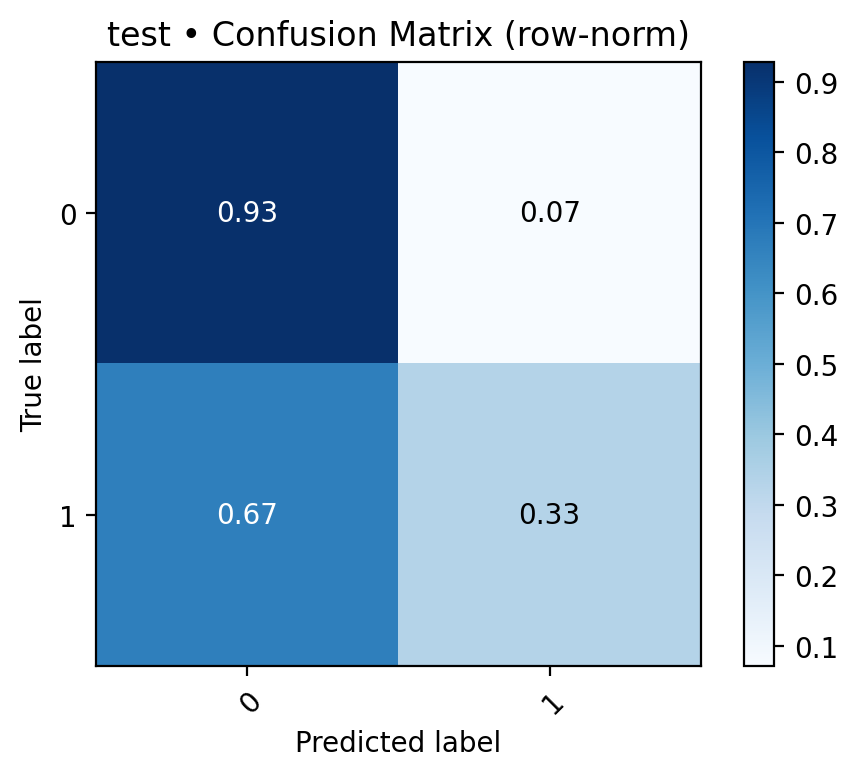
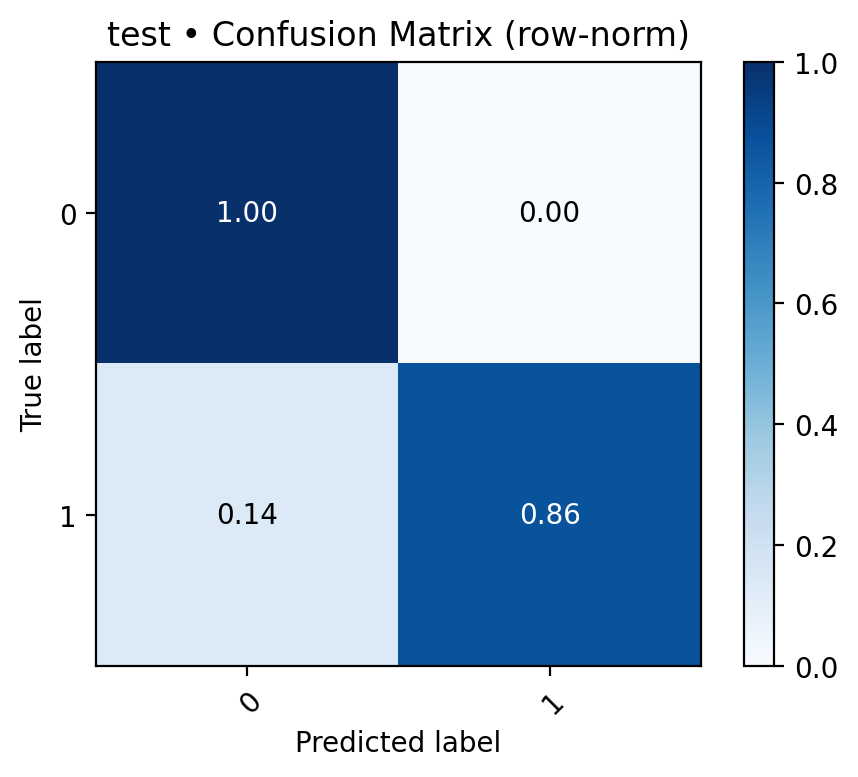
add morphMIL

diff --git a/src/trainMorphMIL.py b/src/trainMorphMIL.py
@@ -41,7 +41,7 @@ from torch.utils.tensorboard import SummaryWriter
 # from xgboost import XGBClassifier
 # from sklearn.utils.class_weight import compute_sample_weight
 # import timm
-from model.transMIL import TransMIL
+from model.morphMIL import MorphMIL
 from model.poolMIL import PoolMIL
 from model.utils import build_scheduler, build_loss
 
@@ -210,16 +210,11 @@ def save_ckpt(state, path: str):
 def build_backbone(cfg):
     backbone = cfg.get("backbone")
     n_classes = cfg.get("n_classes")
-    if backbone == "TransMIL":
+    if backbone == "MorphMIL":
         device = torch.device(f"cuda:{cfg['cuda']}" if torch.cuda.is_available() else "cpu")
-        model = TransMIL(cfg= cfg, n_classes = n_classes).to(device)
+        model = MorphMIL(cfg= cfg, n_classes = n_classes).to(device)
         return model
 
-    if backbone == "poolMIL":
-        device = torch.device(f"cuda:{cfg['cuda']}" if torch.cuda.is_available() else "cpu")
-        model = PoolMIL(cfg= cfg, n_classes = n_classes).to(device)
-        return model
-    return model
 
 def _unpack_out(out):
     if isinstance(out, dict):
@@ -257,10 +252,10 @@ class Trainer:
         base_dim = self.cfg.get("base_input_dim", 1024)
         morph_dim = self.cfg.get("morph_dim", 246)
         
-        if self.cfg.get("simple_concat", False):
-            self.cfg["input_dim"] = base_dim + morph_dim
-        else:
-            self.cfg["input_dim"] = base_dim        
+        # if self.cfg.get("simple_concat", False):
+        #     self.cfg["input_dim"] = base_dim + morph_dim
+        # else:
+        #     self.cfg["input_dim"] = base_dim        
                     
         self.model = build_backbone(cfg).to(self.device)
 
@@ -320,17 +315,12 @@ class Trainer:
         for batch in loader:
             x = batch["feats"].to(self.device, non_blocking=True).unsqueeze(0)
             y = batch["label"].to(self.device, non_blocking=True)
-            
-            ###### merge the feats and morphs
-            if self.cfg.get("simple_concat"):
-                morph = batch["morph"].to(self.device, non_blocking=True).unsqueeze(0)
-                x = torch.cat([x, morph], dim=-1)
-                
+            morph = batch["morph"].to(self.device, non_blocking=True).unsqueeze(0)               
             if self.use_amp:
                 with autocast():
-                    out = self.model(data=x)
+                    out = self.model(x, morph)
             else:
-                out = self.model(data=x)
+                out = self.model(x, morph)
 
             logits, yhat, yprob = self._unpack_out(out)  # your existing helper
             print("logits, yhat, yprob--------------", logits.shape, yhat.shape, yprob.shape)
@@ -437,20 +427,13 @@ class Trainer:
         for step, batch in enumerate(self.train_loader, 1):
             x = batch["feats"].to(self.device, non_blocking=True).unsqueeze(0)   # (B,16,2048)
             y = batch["label"].to(self.device, non_blocking=True)   # (B,)
+            morph = batch["morph"].to(self.device, non_blocking=True).unsqueeze(0)               
 
-            if self.cfg.get("simple_concat"):
-                morph = batch["morph"].to(self.device, non_blocking=True).unsqueeze(0)
-                x = torch.cat([x, morph], dim=-1)
-                # print("x----------------shape", x.shape)
-                # print("morph------------shape", morph.shape)
-
-            # print("x--------------shape", x.shape)
-            # exit()
             i = 0
 
             self.optimizer.zero_grad(set_to_none=True)
             with autocast():
-                out = self.model(data=x)                        # dict or tensor
+                out = self.model(x, morph)                        # dict or tensor
                 logits, yhat, yprob = self._unpack_out(out)
                 # print("logits------------------------", logits.shape)
                 # print("yhat--------------------------", yhat.shape, yhat)
@@ -504,17 +487,15 @@ class Trainer:
             for batch in self.val_loader:
                 x = batch["feats"].to(self.device, non_blocking=True).unsqueeze(0)
                 y = batch["label"].to(self.device, non_blocking=True)
-                if self.cfg.get("simple_concat"):
-                    morph = batch["morph"].to(self.device, non_blocking=True).unsqueeze(0)
-                    x = torch.cat([x, morph], dim=-1)
-                    
+                morph = batch["morph"].to(self .device, non_blocking=True).unsqueeze(0)               
+
                 if self.use_amp:
                     with autocast():
-                        out = self.model(data=x)
+                        out = self.model(x, morph)
                         logits, yhat, yprob = self._unpack_out(out)
                         loss = self.loss_fn(logits, y)
                 else:
-                    out = self.model(data=x)
+                    out = self.model(x, morph)
                     logits, yhat, yprob = self._unpack_out(out)
                     loss = self.loss_fn(logits, y)
 
@@ -595,27 +576,13 @@ class Trainer:
         
         
         
-    # ---------- Forward-only (e.g., quick sanity) ----------
-    def forward_all(self, ckpt_path: str = None, max_batches: int = None):
-        if ckpt_path is not None and os.path.isfile(ckpt_path):
-            self.load_ckpt(ckpt_path)
-        print("start the forward_all -------------------------")
-        self.model.eval()
-        seen = 0
-        for split, loader in [("val", self.val_loader)]:
-            for batch in loader:
-                x = batch["feats"].to(self.device, non_blocking=True).unsqueeze(0)
-                # print("x-------------------------------------", x.shape)
-                logits = self.model(data=x)
-                print(f"{split} batch logits shape:", logits["logits"].shape)
-                seen += 1
-                if max_batches and seen >= max_batches:
-                    break
+
+
 
 
 # ---------- Main ----------
 def main():
-    cfg_path = os.path.abspath(os.path.join(os.path.dirname(__file__), "..", "src/trainTransMIL.yaml"))
+    cfg_path = os.path.abspath(os.path.join(os.path.dirname(__file__), "..", "src/trainMorphMIL.yaml"))
     with open(cfg_path, "r") as f:
         cfg = yaml.safe_load(f) or {}
 

diff --git a/src/model/morphMIL.py b/src/model/morphMIL.py
@@ -3,7 +3,7 @@ import torch.nn as nn
 import torch.nn.functional as F
 import numpy as np
 from nystrom_attention import NystromAttention
-
+from .adaptorMorph import AdaptorViT
 # --- Mamba wrapper (expects x: [B, N, D]) ---
 try:
     from mamba_ssm import Mamba
@@ -131,11 +131,11 @@ class PPEG(nn.Module):
         return x
 
 
-class TransMIL(nn.Module):
+class MorphMIL(nn.Module):
     def __init__(self, cfg, n_classes):
-        super(TransMIL, self).__init__()
-        self.emd_dim = cfg.get("emd_dim", 512)
-        self.input_dim = cfg.get("input_dim", 1024)
+        super(MorphMIL, self).__init__()
+        self.emd_dim = cfg.get("emd_dim")
+        self.input_dim = cfg.get("input_dim" )
 
         ## define the gpu ids
         gpu_id = cfg.get("cuda", 0)
@@ -162,54 +162,50 @@ class TransMIL(nn.Module):
         self._fc3 = nn.Linear(self.emd_dim, self.n_classes)
         self.dropout = nn.Dropout(p=0.2)          # try 0.2–0.5
 
-
-    def forward(self, **kwargs):
         
-        h = kwargs['data'].float() #[B, n, 1024]
-        # print("h------------------------------------shape:", h.shape)
-        # exit()
+        ############################### AdaptorMorph is here
+        self.adaptor_morph = AdaptorViT(cfg)
+
+    def forward(self, data, morph):
+        
+        h = data.float() #[B, n, 1024]
+        # print("input of h ---------------------", h.shape)
+        h_morph = morph.float()
+        
+        ################################# Morph is here:
+        # print("input of h_morph ---------------------", h_morph.shape)
+        h_morph = self.adaptor_morph(h_morph)
+        # print("output of h_morph ---------------------", h_morph.shape)
+
+        ################################# How to concate the feats and morph
+        h = torch.cat((h,h_morph),dim=2)
+        # print("output of concate ---------------------", h.shape)
+
+        ################################# base MIL
         h = self._fc1(h) #[B, n, 512]
-        # print("after fc1-----------------------", h.shape)
-        #---->pad
         H = h.shape[1]
-        # print("H shape---------------------------------------", H)
         _H, _W = int(np.ceil(np.sqrt(H))), int(np.ceil(np.sqrt(H)))
         add_length = _H * _W - H
         h = torch.cat([h, h[:,:add_length,:]],dim = 1) #[B, N, 512]
-
-        # print("1) Squaring of sequence;-----------------------", h.shape)
         
         #---->cls_token
         B = h.shape[0]
         cls_tokens = self.cls_token.expand(B, -1, -1).to(self.device)
         h = torch.cat((cls_tokens, h), dim=1)
 
-        # print("after adding the token-----------------------", h.shape)
-
         #---->Translayer x1
         h = self.layer1(h) #[B, N, 512]
-        # h = self.layer11(h)
-        # print("after Translayer x1:-----------------------", h.shape)
-        # print("_H, _W:------------------------------------", _H, _W)
         
         #---->PPEG
         h = self.pos_layer(h, _H, _W) #[B, N, 512]
-        # print("after PPEG-----------------------", h.shape)
         
         #---->Translayer x2
         h = self.layer2(h) #[B, N, 512]
-        # h = self.layer22(h) #[B, N, 512]
 
-        # print("after Translayer x2-----------------------", h.shape)
-        # exit()
         #---->cls_token
         h = self.norm(h)[:,0]
 
-        # ----> predict
-        # h = self._fc2(h)
         logits = self._fc3(h)              # [B, n_classes]
-        # h = F.relu(h, inplace=True)        # keep if you use a nonlinearity
-        # h = self.dropout(h)                # <-- dropout here
         
         Y_hat = torch.argmax(logits, dim=1)
         Y_prob = F.softmax(logits, dim = 1)
@@ -218,17 +214,20 @@ class TransMIL(nn.Module):
 
 if __name__ == "__main__":
     cfg = {
-        "emd_dim": 512,
+        "emd_dim": 1024,
         "input_dim": 2048,   # matches your data's last dim
-        "cuda": 0,           # GPU id
+        "input_morph_dim": 243,
+        "cuda": 1,           # GPU id
         "ppeg": "norm",      # or "addaptive"
     }
 
     device = torch.device(f"cuda:{cfg['cuda']}" if torch.cuda.is_available() else "cpu")
 
-    data = torch.randn((1, 16, 2048), device=device)
+    input_ = {}
+    input_["data"] = torch.randn((1, 16, 1024), device=device)
+    input_["morph"] = torch.randn((1, 16, 243), device=device)
 
-    model = TransMIL(cfg=cfg, n_classes=2).to(device)
+    model = MorphMIL(cfg=cfg, n_classes=2).to(device)
 
-    results_dict = model(data=data)
+    results_dict = model(data=input_["data"], morph=input_["morph"])
     print(results_dict)

diff --git a/src/model/adaptorMorph.py b/src/model/adaptorMorph.py
@@ -131,104 +131,51 @@ class PPEG(nn.Module):
         return x
 
 
-class TransMIL(nn.Module):
-    def __init__(self, cfg, n_classes):
-        super(TransMIL, self).__init__()
+class AdaptorViT(nn.Module):
+    def __init__(self, cfg ):
+        super(AdaptorViT, self).__init__()
         self.emd_dim = cfg.get("emd_dim", 512)
-        self.input_dim = cfg.get("input_dim", 1024)
+        self.input_dim = cfg.get("input_morph_dim", 1024)
 
         ## define the gpu ids
         gpu_id = cfg.get("cuda", 0)
         if torch.cuda.is_available():
             self.device = torch.device(f"cuda:{gpu_id}")
 
-
-        if cfg["ppeg"]=="norm":
-            self.pos_layer = PPEG(dim=self.emd_dim)
-        elif cfg["ppeg"]=="addaptive":
-            self.pos_layer = AddapPPEG(dim=self.emd_dim, mix_channels=False )
-            
         self._fc1 = nn.Sequential(nn.Linear(self.input_dim, self.emd_dim), nn.ReLU())
-        self.cls_token = nn.Parameter(torch.randn(1, 1, self.emd_dim))
-        self.n_classes = n_classes
         self.layer1 = TransLayer(cfg, dim=self.emd_dim )
-        # self.layer11 = TransLayer(cfg, dim=self.emd_dim )
-
         self.layer2 = TransLayer(cfg, dim=self.emd_dim )
-        # self.layer22 = TransLayer(cfg, dim=self.emd_dim )
-
-        self.norm = nn.LayerNorm(self.emd_dim)
-        # self._fc2 = nn.Linear(1024, 512)
-        self._fc3 = nn.Linear(self.emd_dim, self.n_classes)
-        self.dropout = nn.Dropout(p=0.2)          # try 0.2–0.5
 
 
-    def forward(self, **kwargs):
+    def forward(self, data):
         
-        h = kwargs['data'].float() #[B, n, 1024]
-        # print("h------------------------------------shape:", h.shape)
-        # exit()
+        h = data.float() #[B, n, 1024]
+
         h = self._fc1(h) #[B, n, 512]
-        # print("after fc1-----------------------", h.shape)
-        #---->pad
-        H = h.shape[1]
-        # print("H shape---------------------------------------", H)
-        _H, _W = int(np.ceil(np.sqrt(H))), int(np.ceil(np.sqrt(H)))
-        add_length = _H * _W - H
-        h = torch.cat([h, h[:,:add_length,:]],dim = 1) #[B, N, 512]
-
-        # print("1) Squaring of sequence;-----------------------", h.shape)
-        
-        #---->cls_token
-        B = h.shape[0]
-        cls_tokens = self.cls_token.expand(B, -1, -1).to(self.device)
-        h = torch.cat((cls_tokens, h), dim=1)
-
-        # print("after adding the token-----------------------", h.shape)
 
         #---->Translayer x1
         h = self.layer1(h) #[B, N, 512]
-        # h = self.layer11(h)
-        # print("after Translayer x1:-----------------------", h.shape)
-        # print("_H, _W:------------------------------------", _H, _W)
-        
-        #---->PPEG
-        h = self.pos_layer(h, _H, _W) #[B, N, 512]
-        # print("after PPEG-----------------------", h.shape)
-        
+
         #---->Translayer x2
         h = self.layer2(h) #[B, N, 512]
-        # h = self.layer22(h) #[B, N, 512]
 
-        # print("after Translayer x2-----------------------", h.shape)
-        # exit()
-        #---->cls_token
-        h = self.norm(h)[:,0]
 
-        # ----> predict
-        # h = self._fc2(h)
-        logits = self._fc3(h)              # [B, n_classes]
-        # h = F.relu(h, inplace=True)        # keep if you use a nonlinearity
-        # h = self.dropout(h)                # <-- dropout here
-        
-        Y_hat = torch.argmax(logits, dim=1)
-        Y_prob = F.softmax(logits, dim = 1)
-        results_dict = {'logits': logits, 'Y_prob': Y_prob, 'Y_hat': Y_hat}
-        return results_dict
-
+        return h 
+    
+    
 if __name__ == "__main__":
     cfg = {
-        "emd_dim": 512,
-        "input_dim": 2048,   # matches your data's last dim
-        "cuda": 0,           # GPU id
+        "emd_dim": 1024,
+        "input_morph_dim": 243,   # matches your data's last dim
+        "cuda": 1,           # GPU id
         "ppeg": "norm",      # or "addaptive"
     }
 
     device = torch.device(f"cuda:{cfg['cuda']}" if torch.cuda.is_available() else "cpu")
 
-    data = torch.randn((1, 16, 2048), device=device)
+    data = torch.randn((1, 16, 243), device=device)
 
-    model = TransMIL(cfg=cfg, n_classes=2).to(device)
+    model = AdaptorViT(cfg=cfg).to(device)
 
     results_dict = model(data=data)
-    print(results_dict)
+    print(results_dict.shape)
